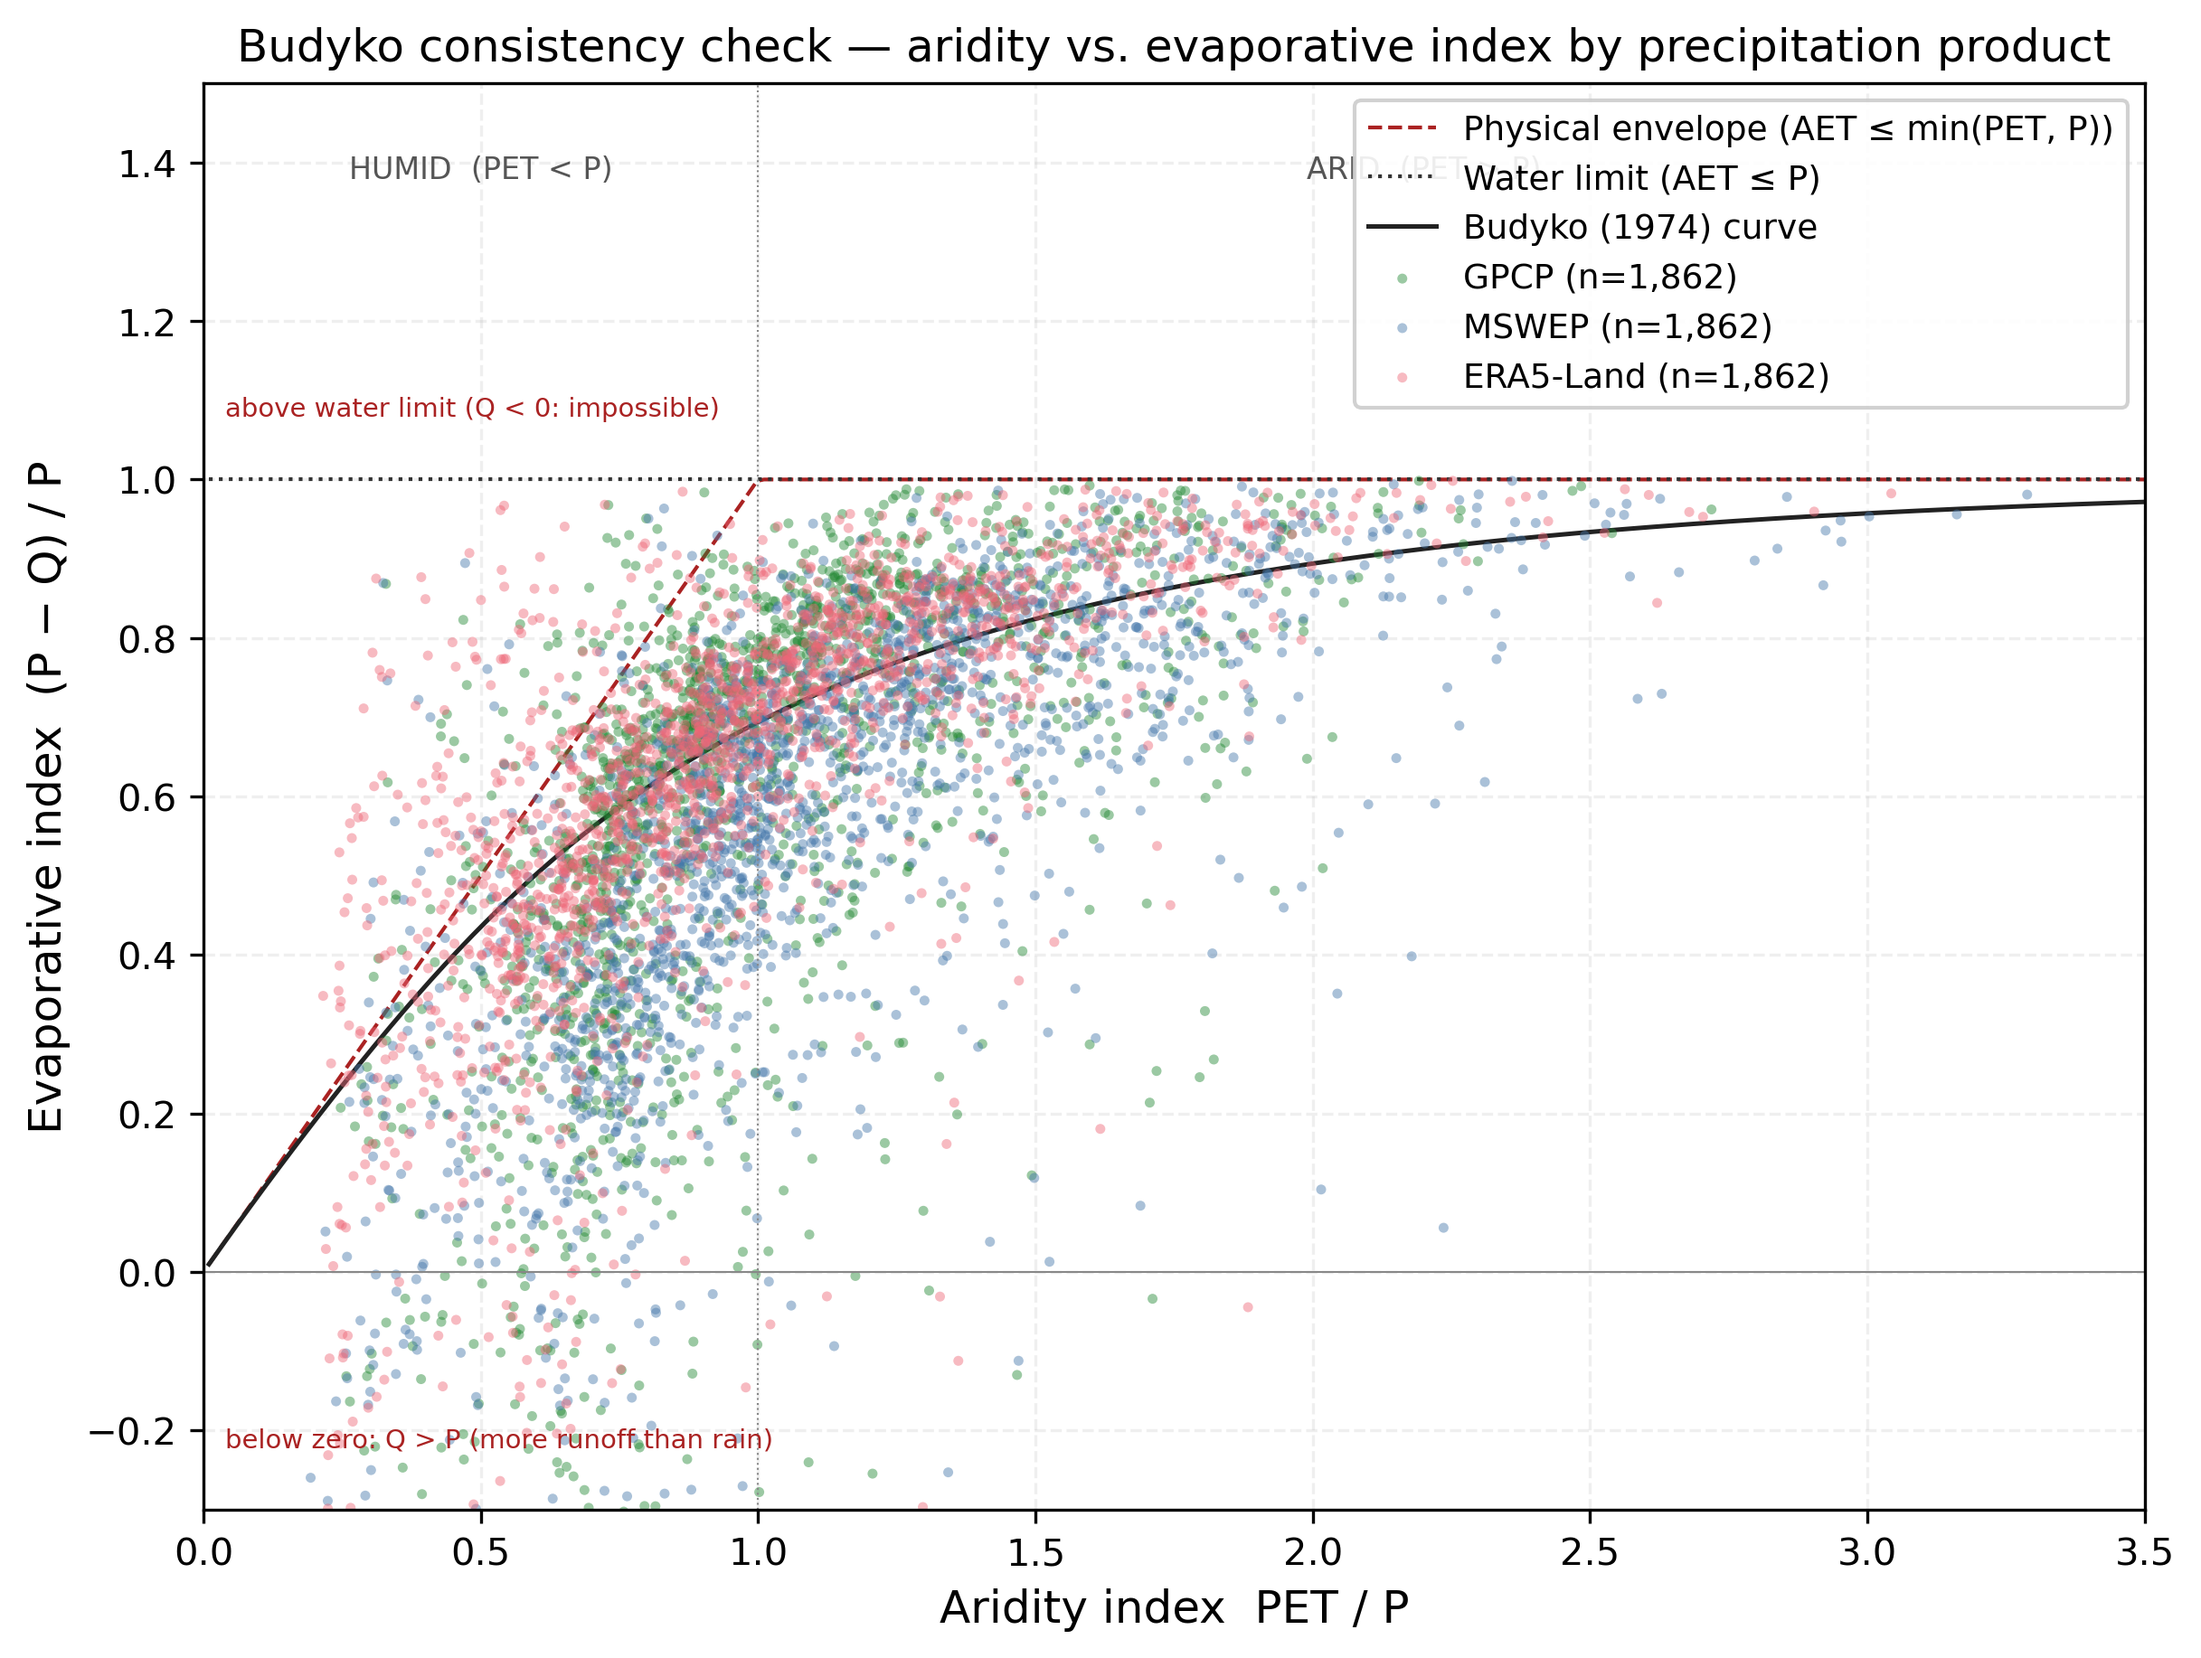
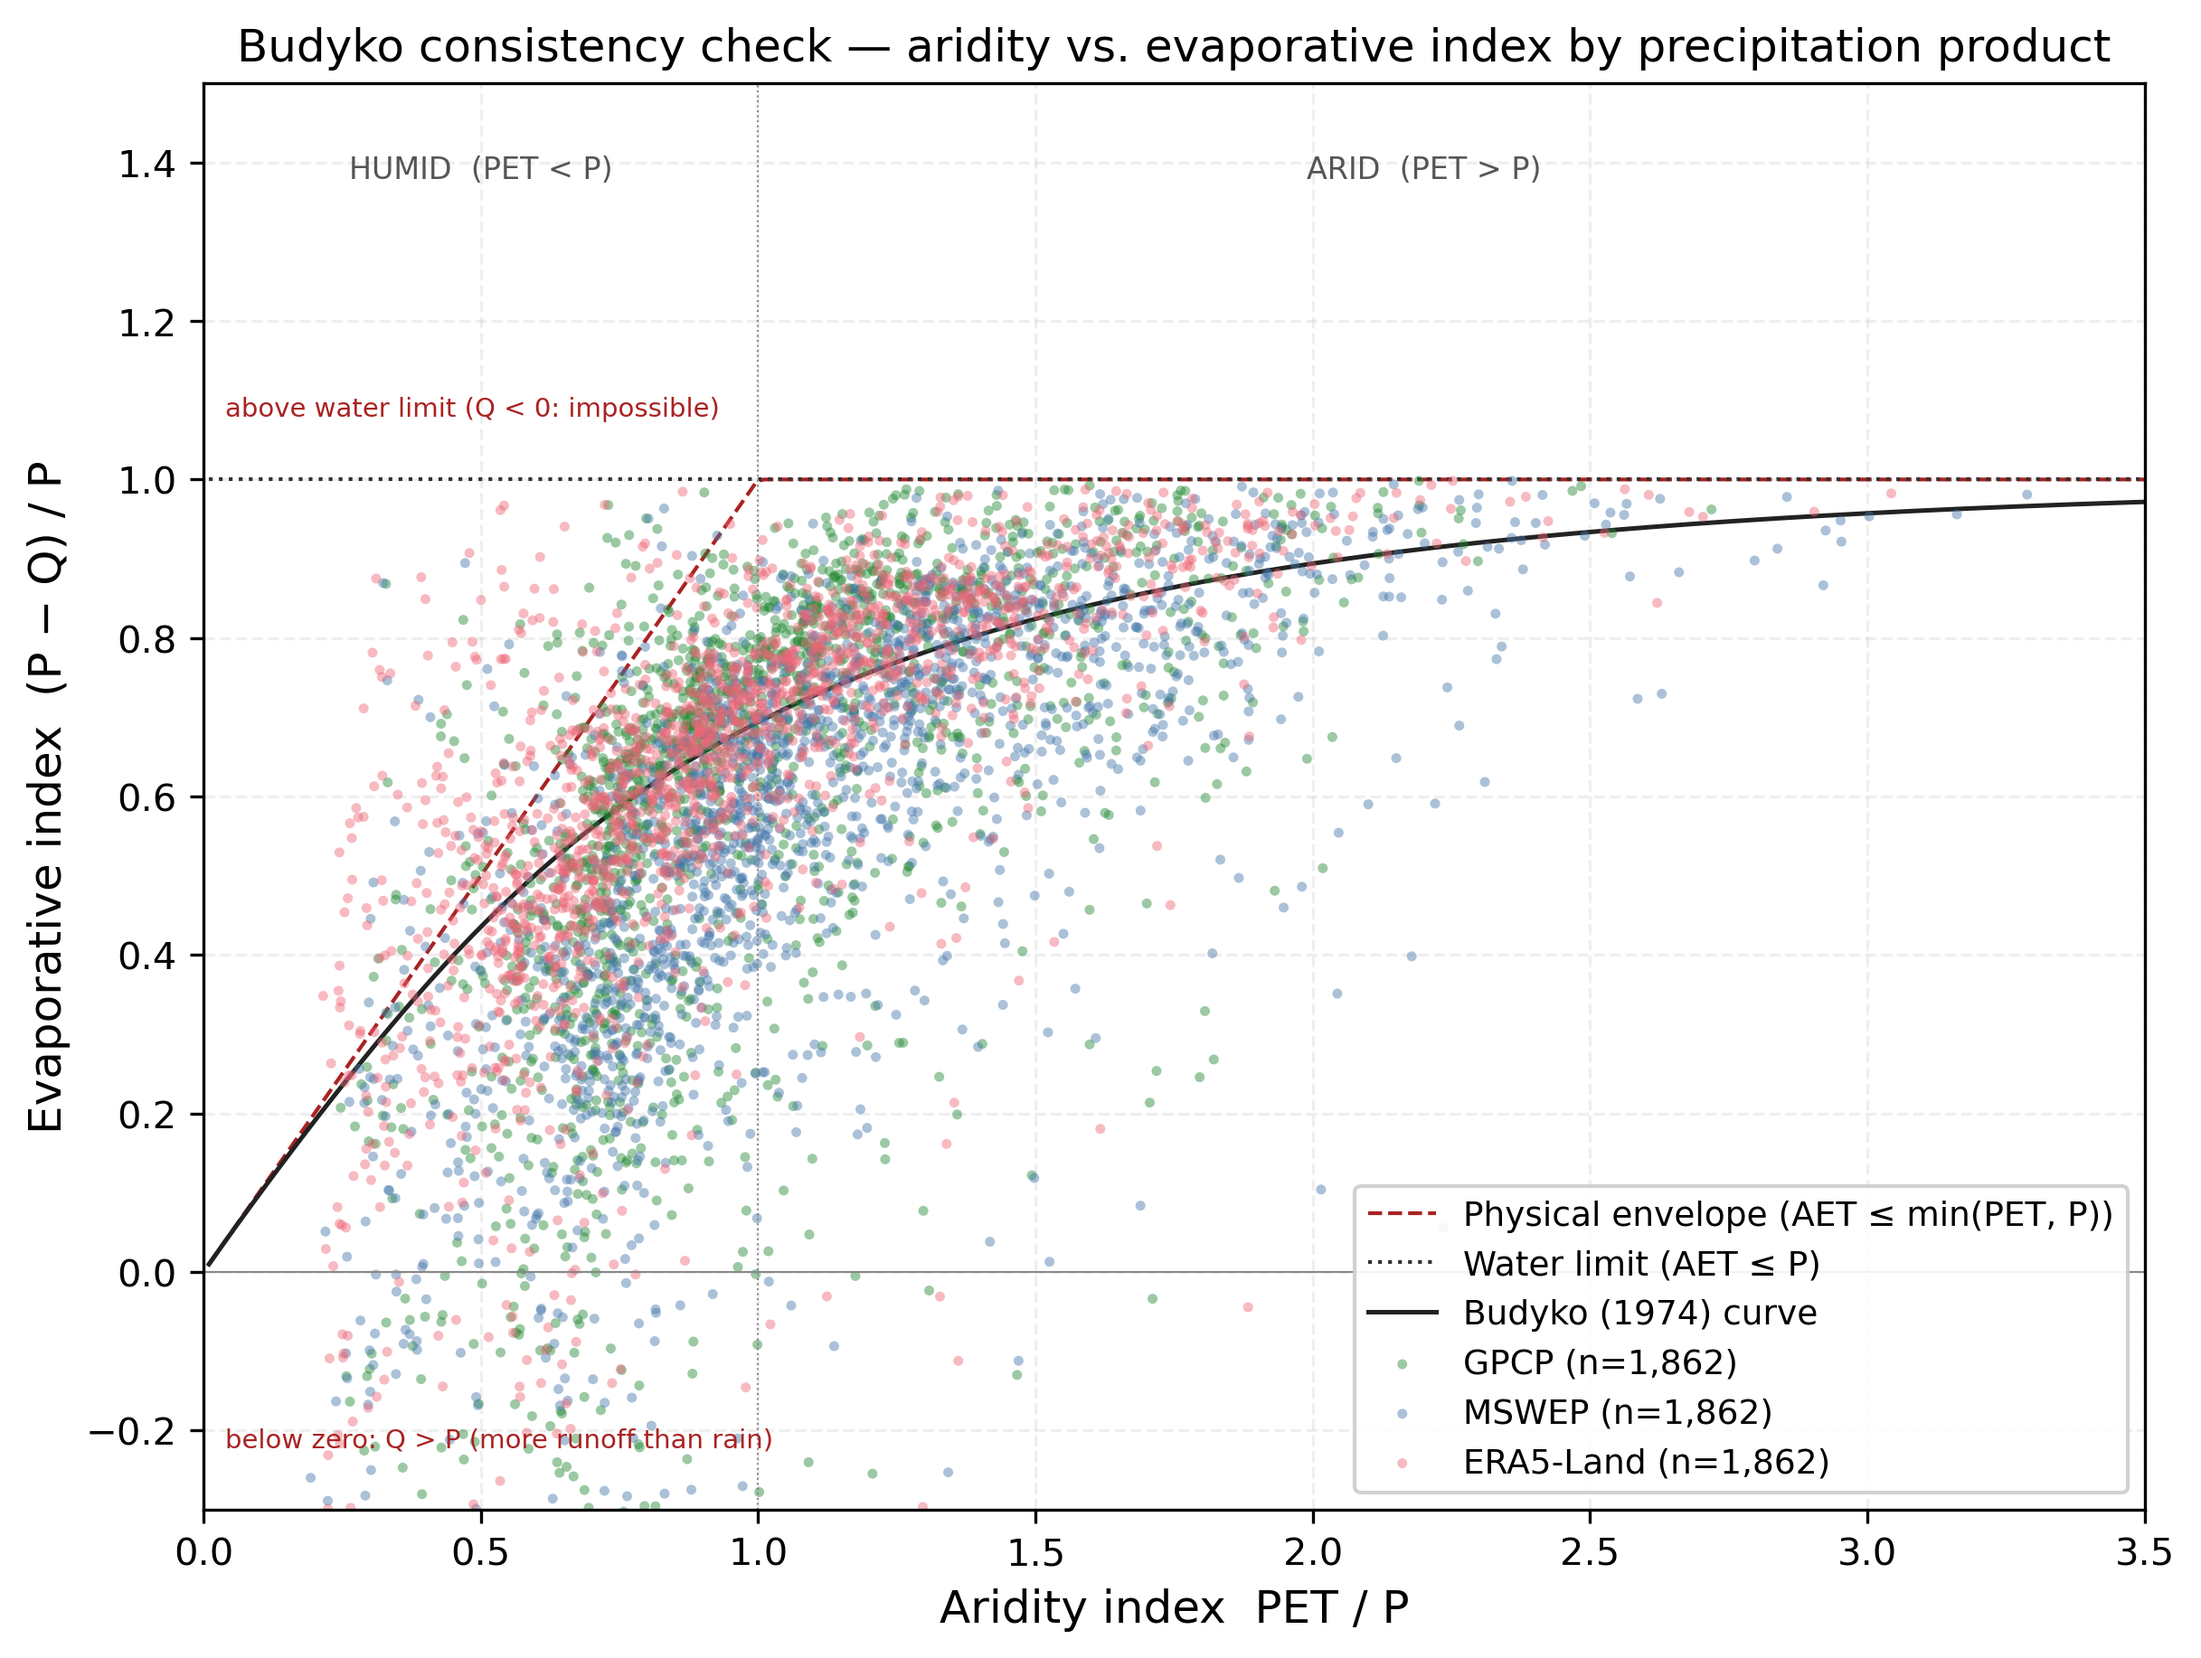
Guard attribute/signature macros + Budyko legend fix; bump manuscript submodule (@ 26b212e)
- scripts/verify_macros.py: derive and check \nattributesfull (281), \nattributescols (288),
  \nattributes (22), and \nsignatures (15) against the release + primary-subset table, so the
  macroized literals cannot drift silently.
- scripts/generate_budyko_figure.py: move legend upper-right -> lower-right (it overlapped the
  "ARID (PET > P)" annotation); regenerated paper/images/fig_budyko.png.
- Submodule pointer -> 26b212e (macroized counts, Zenodo abstract pointer, regenerated figure).

verify_macros GREEN; ruff clean; latexmk clean (36 pp, 0 undefined).

Claude-Session: https://claude.ai/code/session_01S7RmX8pNfnsAfuj5fC26Fx

diff --git a/scripts/verify_macros.py b/scripts/verify_macros.py
@@ -36,6 +36,18 @@ RESULTS_HESS = REPO / "results" / "hess_quality"
 PAPER = REPO / "paper"
 MACROS = PAPER / "overleaf" / "macros.tex"
 
+# Seven CAMELS-RU-derived columns appended to the 281 canonical HydroATLAS attributes in
+# camels_ru_attributes.csv (used to derive \nattributesfull = 281 and \nattributescols = 288).
+DERIVED_ATTR_COLS = (
+    "ws_area",
+    "acc",
+    "height_bs",
+    "lat",
+    "lon",
+    "area_fraction_used",
+    "n_hydroatlas_polygons",
+)
+
 
 def section(title: str) -> None:
     """Print a report section heading."""
@@ -260,12 +272,21 @@ def main() -> None:
         f"{n_waterlevel_analysis}",
         match=n_waterlevel_analysis == 2837,
     )
-    kv(
-        "nsignatures (rows in signatures_summary)",
-        "15",
-        f"{n_signatures_defined}",
-        match=n_signatures_defined == 15,
+    check_macro(macros, "nsignatures", float(n_signatures_defined), "{:.0f}")
+
+    # Attribute-count macros, guarded so the abstract/§3/table literals cannot drift:
+    #   \nattributescols = all CSV columns minus gauge_id (288)
+    #   \nattributesfull = those minus the 7 CAMELS-RU-derived columns (281 HydroATLAS)
+    #   \nattributes     = rows in the curated primary-subset table (22)
+    n_attr_cols_total = len(attrs.columns) - 1  # exclude gauge_id
+    n_derived_present = sum(c in attrs.columns for c in DERIVED_ATTR_COLS)
+    check_macro(macros, "nattributescols", float(n_attr_cols_total), "{:.0f}")
+    check_macro(macros, "nattributesfull", float(n_attr_cols_total - n_derived_present), "{:.0f}")
+    attr_table_text = (PAPER / "overleaf" / "tables" / "hydroatlas_attributes.tex").read_text(
+        encoding="utf-8"
     )
+    n_primary_attrs = len(re.findall(r"[a-z]{3}\\_[a-z]{2}\\_[a-z]{3}", attr_table_text))
+    check_macro(macros, "nattributes", float(n_primary_attrs), "{:.0f}")
     kv(
         "nsigngauges (signatures.csv cleaned)",
         "1,845",

diff --git a/scripts/generate_budyko_figure.py b/scripts/generate_budyko_figure.py
@@ -193,7 +193,9 @@ def _plot(df: pd.DataFrame) -> None:
     ax.text(0.04, 1.08, "above water limit (Q < 0: impossible)", fontsize=7, color="#AA2222")
     ax.text(0.04, -0.22, "below zero: Q > P (more runoff than rain)", fontsize=7, color="#AA2222")
     ax.grid(alpha=0.2, linestyle="--")
-    ax.legend(loc="upper right", fontsize=9, framealpha=0.9)
+    # Lower-right corner (very arid, low evaporative index) is empty for this humid domain,
+    # so the legend there does not overlap data or the "ARID (PET > P)" annotation (upper right).
+    ax.legend(loc="lower right", fontsize=9, framealpha=0.9)
     ax.set_title(
         "Budyko consistency check — aridity vs. evaporative index by precipitation product",
         fontsize=12,
